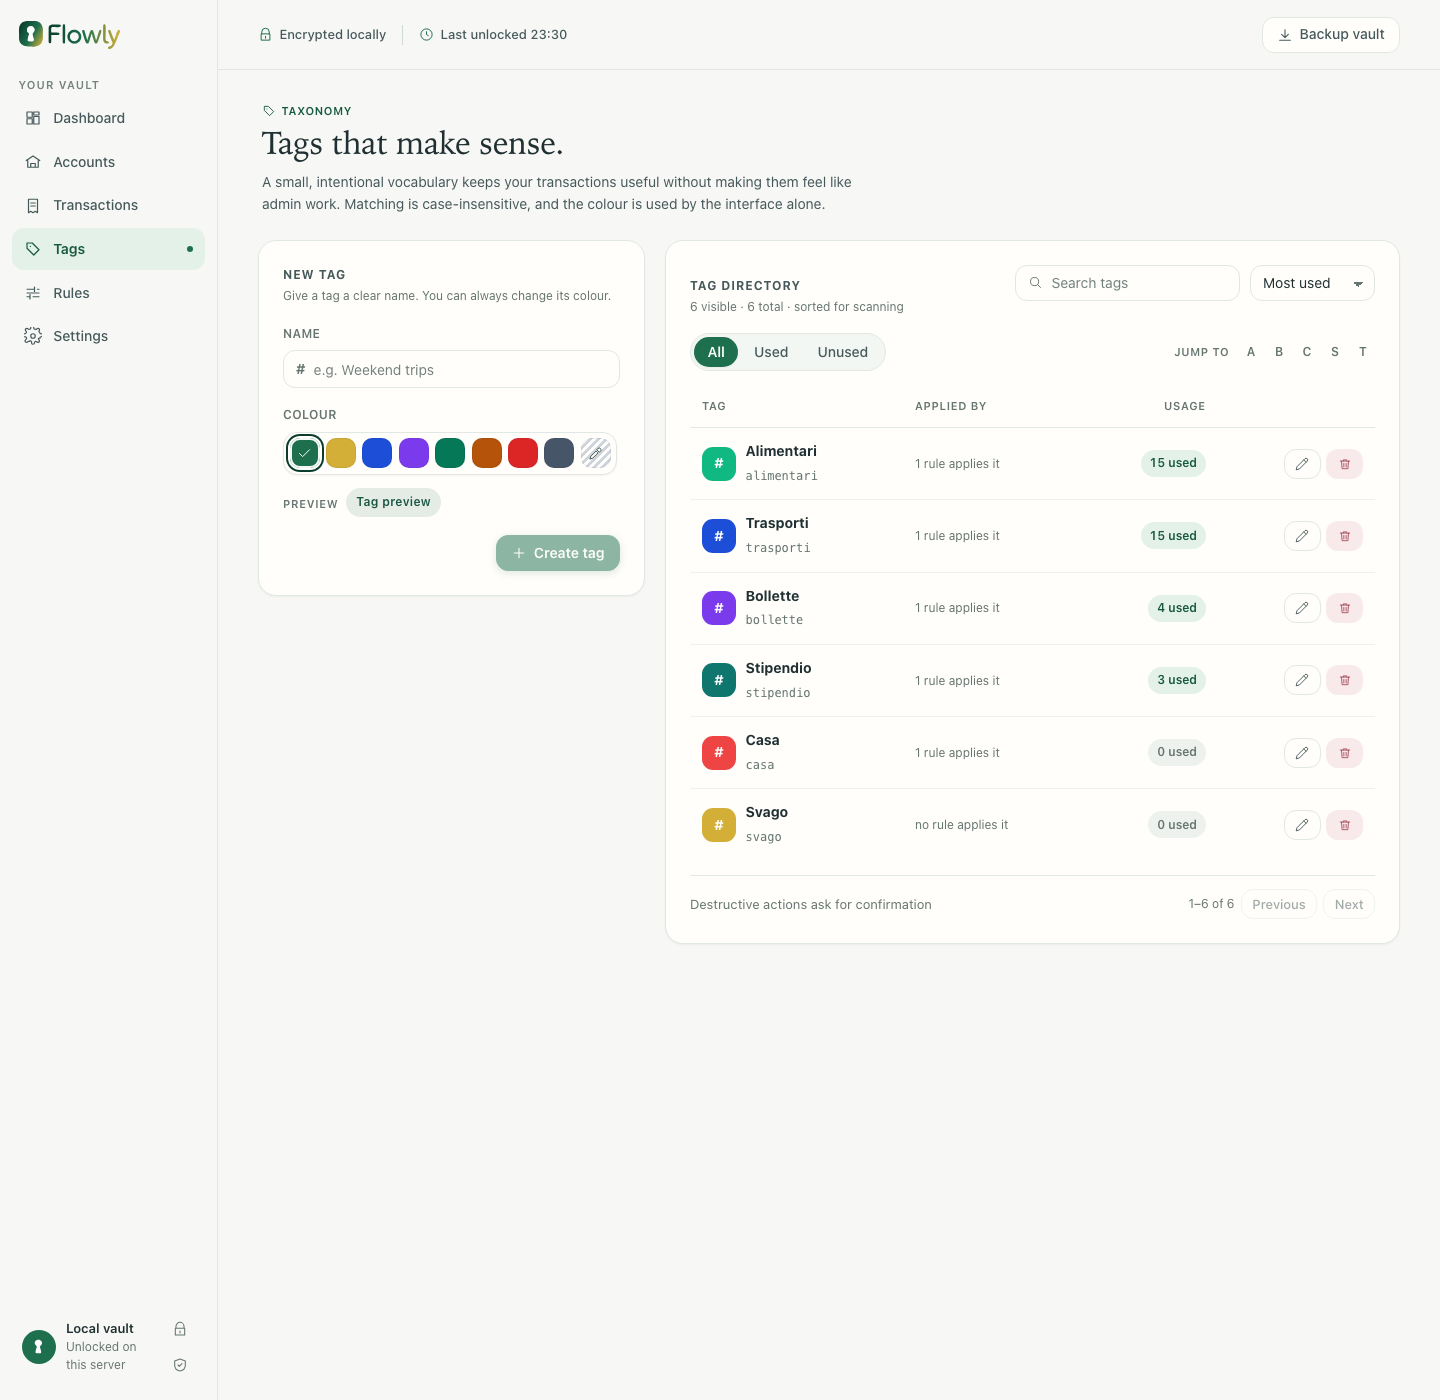
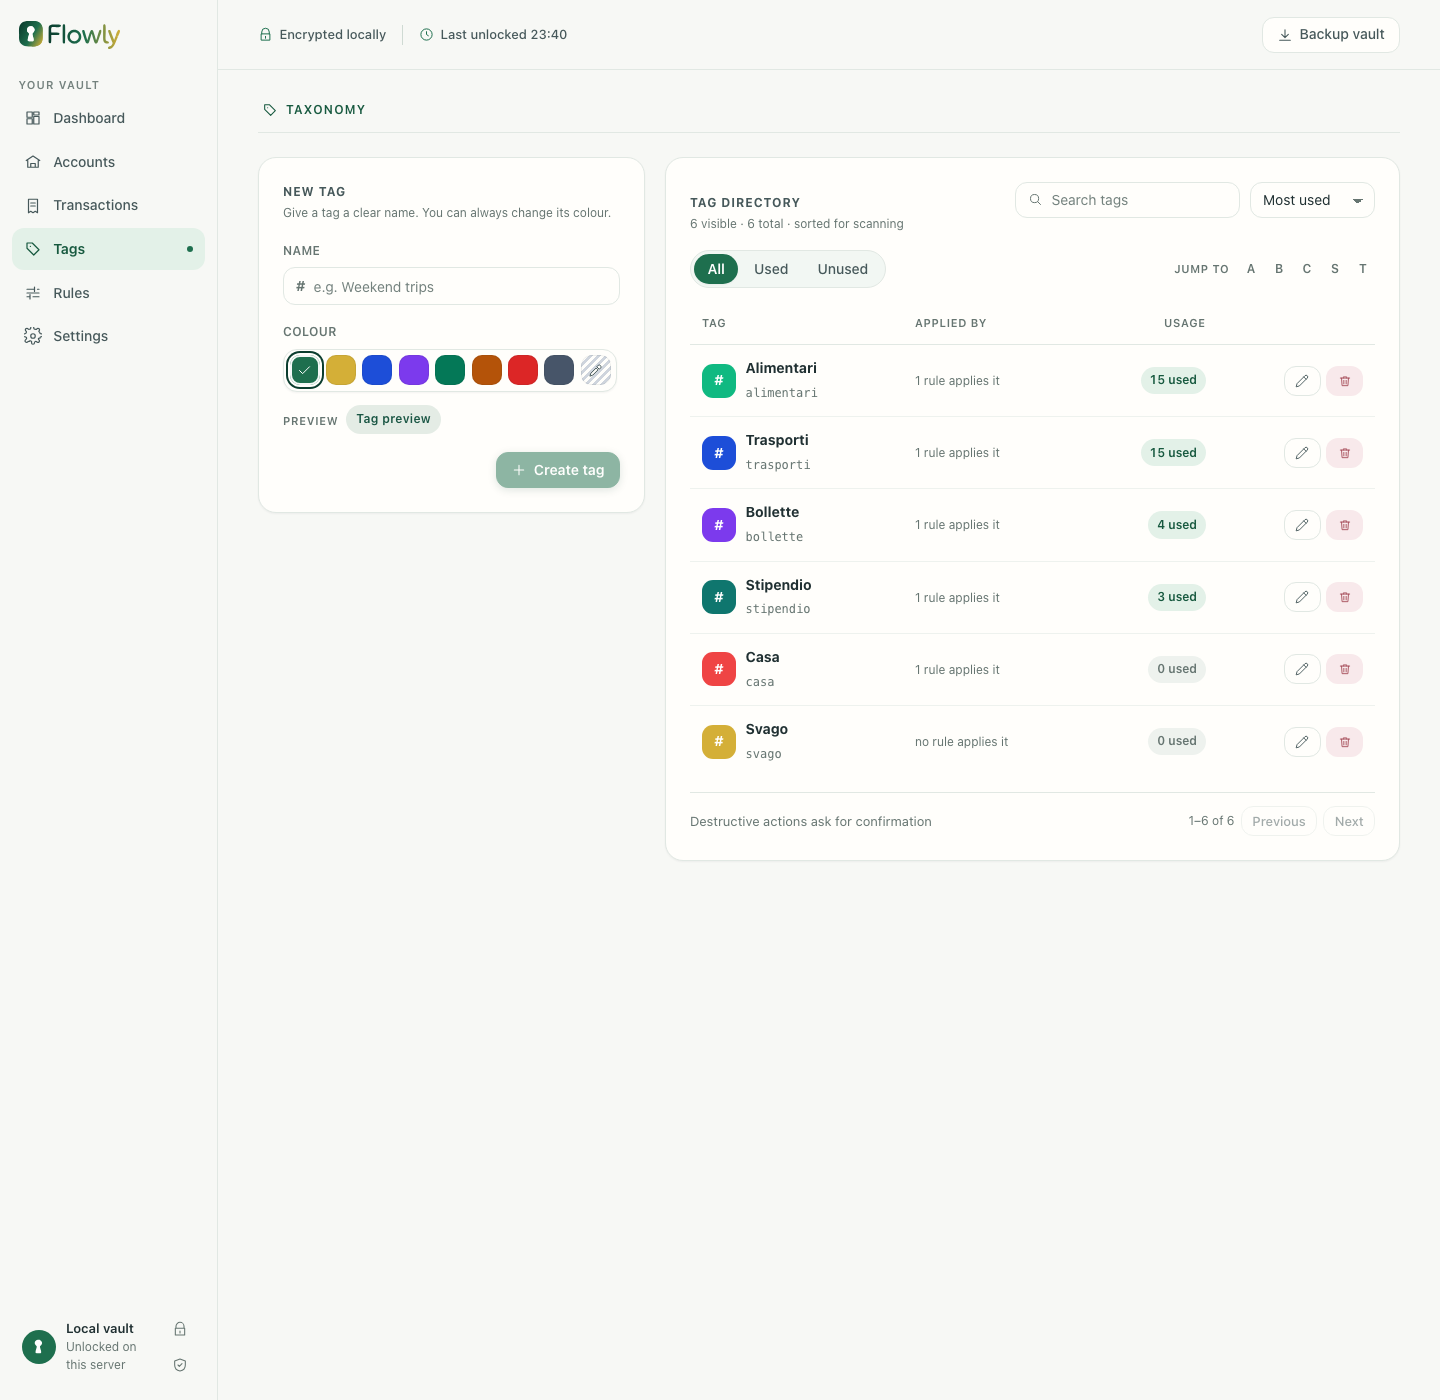
refactor(web): simplify SectionIntro usage and update styles for consistency

diff --git a/apps/web/src/views/DashboardView.tsx b/apps/web/src/views/DashboardView.tsx
@@ -3,7 +3,7 @@ import type { Account, Dashboard, Tag, Transaction } from "@flowly/web-contracts
 import { api } from "../api/client.js";
 import { DashboardFilters } from "../components/DashboardFilters.js";
 import { Icon } from "../components/icons.js";
-import { Banner, Chip, Empty, Money, tagPillStyle } from "../components/ui.js";
+import { Banner, Chip, Empty, Money, SectionIntro, tagPillStyle } from "../components/ui.js";
 import { BankingSyncCard } from "../components/BankingSyncCard.js";
 import { describeError } from "../hooks/use-workspace.js";
 import type { LedgerFilterSeed } from "../lib/ledger-filter.js";
@@ -222,24 +222,22 @@ export function DashboardView({
       aria-busy={loading || undefined}
       aria-labelledby="dashboard-title"
     >
-      <div className="section-intro">
-        <div className="section-intro-main">
-          <h2 className="eyebrow primary">
-            <Icon name="dashboard" size={24} />
-            Analysis &amp; trend
-          </h2>
-        </div>
-        <div className="section-intro-actions">
-          <button type="button" className="btn ghost" onClick={onExportData}>
-            <Icon name="download" size={16} />
-            Export data
-          </button>
-          <button type="button" className="btn primary" onClick={onNewTransaction}>
-            <Icon name="plus" size={16} />
-            New transaction
-          </button>
-        </div>
-      </div>
+      <SectionIntro
+        icon="dashboard"
+        eyebrow="Analysis & trend"
+        actions={
+          <>
+            <button type="button" className="btn ghost" onClick={onExportData}>
+              <Icon name="download" size={16} />
+              Export data
+            </button>
+            <button type="button" className="btn primary" onClick={onNewTransaction}>
+              <Icon name="plus" size={16} />
+              New transaction
+            </button>
+          </>
+        }
+      />
 
       <DashboardFilters
         months={months}

diff --git a/apps/web/src/components/ui.tsx b/apps/web/src/components/ui.tsx
@@ -65,34 +65,25 @@ export function Empty({ children }: { children: ReactNode }) {
 }
 
 /**
- * The section's own headline: an eyebrow with the section's
- * icon, a sentence worth reading, and — when the section has one — the action
- * that belongs beside its name. Every section opens with exactly this, so the
- * pages read as one product instead of six.
+ * The line a section opens with: its name, with the section's own icon, and —
+ * when the section has one — the action or state that belongs on the same line.
+ * Nothing else comes before the cards: they say what the section is for.
  */
 export function SectionIntro({
   icon,
   eyebrow,
-  title,
-  lead,
   actions,
 }: {
   icon: IconName;
   eyebrow: string;
-  title: string;
-  lead?: ReactNode;
   actions?: ReactNode;
 }) {
   return (
     <div className="section-intro">
-      <div className="section-intro-main">
-        <p className="eyebrow primary">
-          <Icon name={icon} size={14} />
-          {eyebrow}
-        </p>
-        <h2>{title}</h2>
-        {lead ? <p className="lead">{lead}</p> : null}
-      </div>
+      <p className="eyebrow primary">
+        <Icon name={icon} size={16} />
+        {eyebrow}
+      </p>
       {actions ? <div className="section-intro-actions">{actions}</div> : null}
     </div>
   );

diff --git a/apps/web/src/styles.css b/apps/web/src/styles.css
@@ -2889,37 +2889,21 @@ button.legend-row {
 
 .section-intro {
   display: flex;
-  align-items: flex-end;
+  align-items: center;
   justify-content: space-between;
-  gap: 1.5rem;
+  gap: 1rem 1.5rem;
   flex-wrap: wrap;
-  padding: 0 0.25rem;
-}
-
-.section-intro-main {
-  min-width: 0;
+  padding: 0 0.25rem 0.85rem;
+  border-bottom: 1px solid var(--border);
 }
 
 .section-intro .eyebrow {
   display: inline-flex;
   align-items: center;
-  gap: 0.35rem;
-  margin: 0 0 0.4rem;
-}
-
-.section-intro h2 {
-  font-family: var(--font-serif);
-  font-size: 2rem;
-  font-weight: 400;
-  line-height: 1.2;
-  letter-spacing: -0.01em;
-  max-width: 34ch;
-}
-
-.section-intro .lead {
-  margin: 0.5rem 0 0;
-  max-width: 68ch;
-  color: var(--text-secondary);
+  gap: 0.5rem;
+  margin: 0;
+  font-size: 0.75rem;
+  letter-spacing: 0.1em;
 }
 
 .section-intro-actions {

diff --git a/apps/web/src/views/TransactionsView.tsx b/apps/web/src/views/TransactionsView.tsx
@@ -245,12 +245,7 @@ export function TransactionsView({
       aria-busy={loading || undefined}
       aria-labelledby="transactions-title"
     >
-      <SectionIntro
-        icon="transactions"
-        eyebrow="Encrypted ledger"
-        title="A readable trace of every movement."
-        lead="Every movement is validated and stays on this device: search, filters and paging run on the server against the encrypted vault, and nothing is searched in the browser."
-      />
+      <SectionIntro icon="transactions" eyebrow="Encrypted ledger" />
 
       {/* The movement is written here, above the ledger it lands in: the form is
           the first thing on the page, so a button that opened a dialog over the

diff --git a/apps/web/src/views/RulesView.tsx b/apps/web/src/views/RulesView.tsx
@@ -247,8 +247,6 @@ export function RulesView({ csrf }: { csrf: string }) {
       <SectionIntro
         icon="rules"
         eyebrow="Deterministic heuristic engine"
-        title="Keep order, without thinking about it twice."
-        lead="Active rules are evaluated in memory, on your device: nothing is uploaded and nothing is measured. Define the signal, pick a label and Flowly does the repetitive work — rules only ever add tags, on new movements and imports."
         actions={
           <Chip tone={activeRules.length > 0 ? "income" : "neutral"}>
             {activeRules.length > 0 ? `${activeRules.length} active` : "Engine idle"}

diff --git a/apps/web/src/views/SettingsView.tsx b/apps/web/src/views/SettingsView.tsx
@@ -61,12 +61,7 @@ export function SettingsView({ csrf, busy, onChangePassphrase, onClearError }: S
 
   return (
     <section className="view" aria-labelledby="settings-title">
-      <SectionIntro
-        icon="settings"
-        eyebrow="Vault & data"
-        title="Nothing leaves the device unless you take it."
-        lead="Connect your bank, protect the local vault with its passphrase, and export or import your ledger without giving up sovereignty: the three export shapes are the supported way out."
-      />
+      <SectionIntro icon="settings" eyebrow="Vault & data" />
 
       <BankingPanel csrf={csrf} />
 

diff --git a/apps/web/src/views/TagsView.tsx b/apps/web/src/views/TagsView.tsx
@@ -138,12 +138,7 @@ export function TagsView({ csrf }: { csrf: string }) {
 
   return (
     <section className="view" aria-labelledby="tags-title">
-      <SectionIntro
-        icon="tags"
-        eyebrow="Taxonomy"
-        title="Tags that make sense."
-        lead="A small, intentional vocabulary keeps your transactions useful without making them feel like admin work. Matching is case-insensitive, and the colour is used by the interface alone."
-      />
+      <SectionIntro icon="tags" eyebrow="Taxonomy" />
 
       {(tags.error ?? error) ? <Banner tone="error">{tags.error ?? error}</Banner> : null}
 

diff --git a/apps/web/src/views/AccountsView.tsx b/apps/web/src/views/AccountsView.tsx
@@ -95,8 +95,6 @@ export function AccountsView({ csrf }: { csrf: string }) {
       <SectionIntro
         icon="accounts"
         eyebrow="Balances per currency"
-        title="Every account, one vault."
-        lead="Every account is a local endpoint: a bank-linked account shows the balance your bank sends, every other account books its own movements, and no currency is ever converted. Archived accounts keep their movements and can be restored."
         actions={
           <Chip tone="neutral">
             {currencies.size} {currencies.size === 1 ? "currency" : "currencies"}
